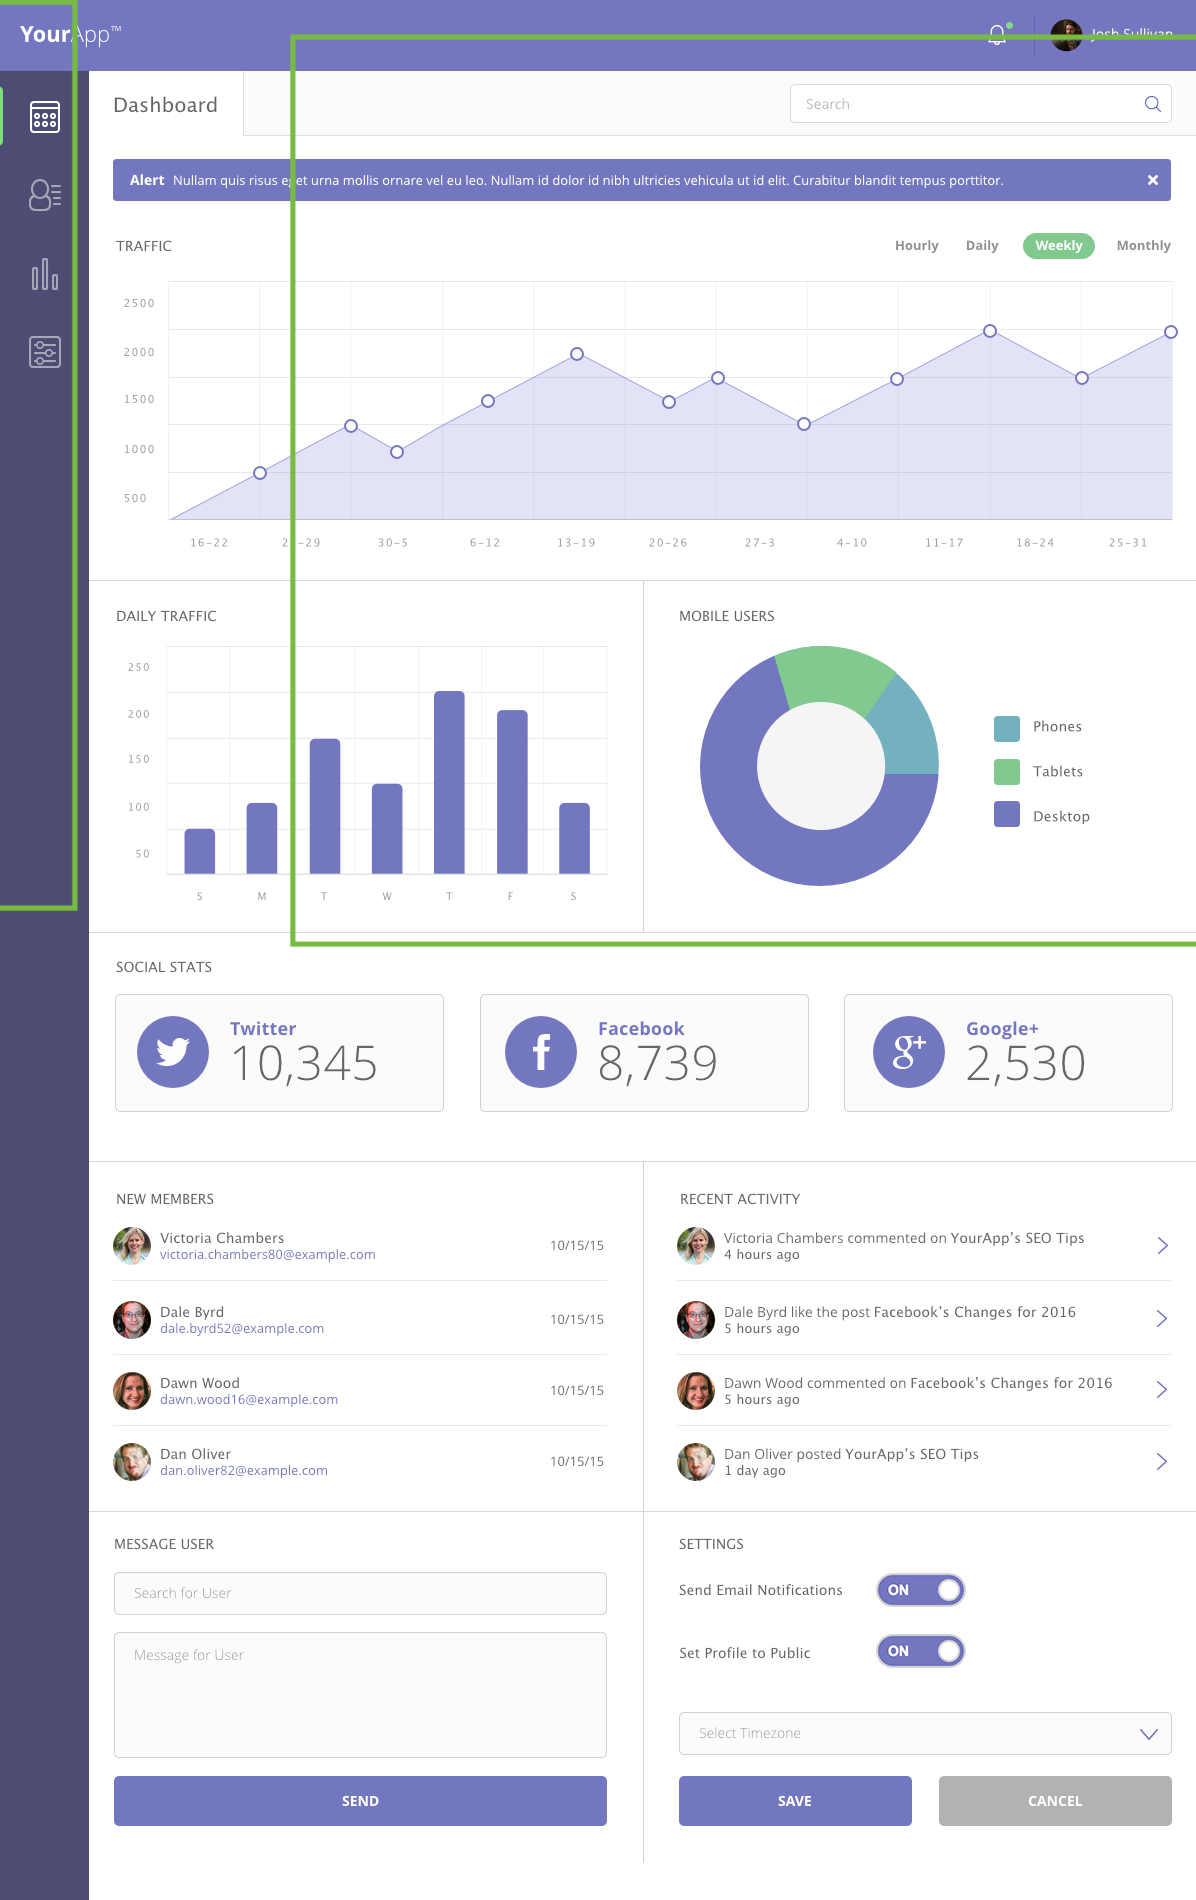
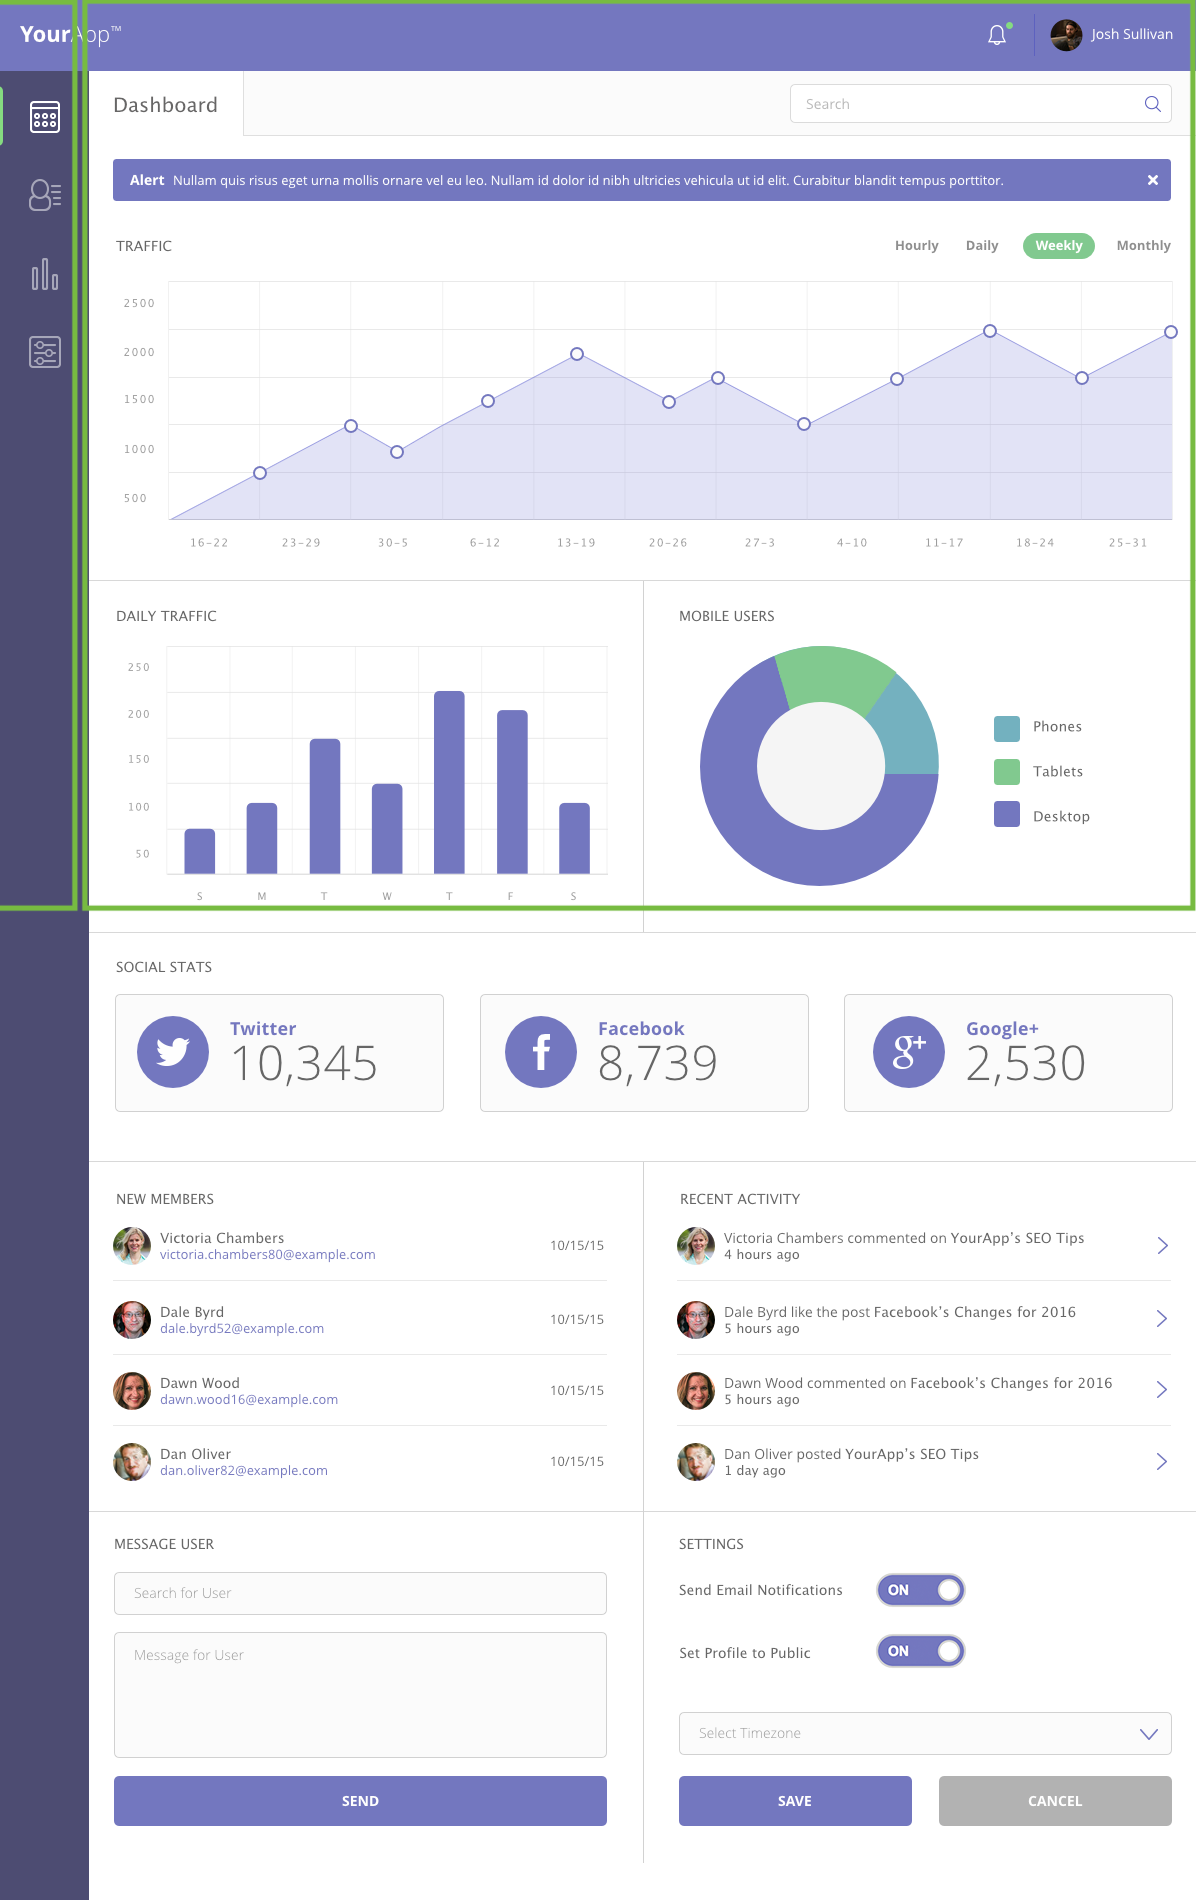
search box fix

Changed region(s): [[0.0619, 0.0, 1.0, 0.4968]]

diff --git a/index.html b/index.html
@@ -37,14 +37,27 @@
                 <img src="web_app_dashboard_v3.1/icons/icon-visits.svg" alt="visits">
                 <img src="web_app_dashboard_v3.1/icons/icon-settings.svg" alt="settings">
             </div>
-            <div class="main">
+            <!--Main-->
+            <div class="main"> 
                 <h2>Dashboard</h2>
-                <div class="search-background">
-                    <div class="main-header-search">
-                        <input type="search" placeholder="Search..." />
-                    </div>
+                <div class="main-search">
+                    <input type="search" placeholder="Search" />
                 </div>
             </div>
-        </div>
+            <!-- alert banner -->
+            <div class="alert" id="alert" >
+        <!-- JS will insert alert here -->
+            </div>
+
+
+
+
+
+
+
+
+
+    </div>
     </body>
 </html>
+

diff --git a/css/styles.css b/css/styles.css
@@ -91,6 +91,8 @@ body { min-height: 100%; }
 
 .main { 
     grid-area: main; 
+    justify-content: space-between;
+    display: flex;
 }
 
 .main h2 {
@@ -101,20 +103,18 @@ body { min-height: 100%; }
     height: 30px;
     line-height: 30px;
     padding: 25px 25px;
-    display: inline-block;
 }
 
-.main .search-background {
+.main .main-search {
     background-color: rgba(216, 214, 214, 0.651);
     height: 60px;
-    display: inline-block;
-    width: 80%;
+    width: 100%;
+    align-items: center;
+    padding-right: 20px;
+    display: flex;
+    justify-content: flex-end;
 }
 
-.main .main-header-search {
-    display: inline-block;
-    border-radius: 10%;
-}
 
 
 
